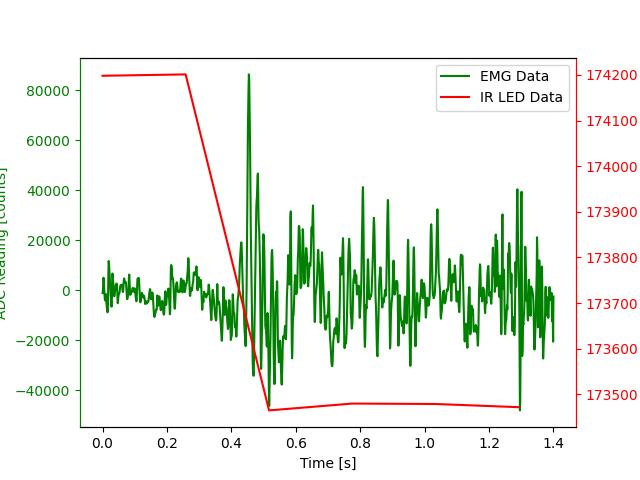
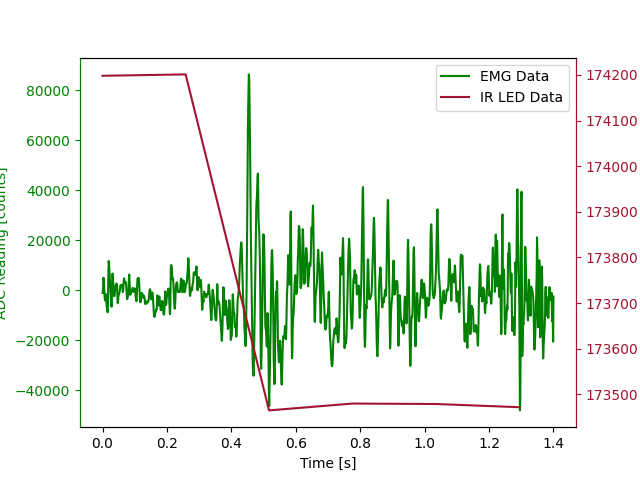
plot cleanup

diff --git a/process_data.py b/process_data.py
@@ -58,7 +58,7 @@ def main():
             lns2 = ax2.plot(
                 (light_data[idx - 1 : idx + 5, 0] - light_data[idx - 1, [0]]) / 1000,
                 light_data[idx - 1 : idx + 5, 2],
-                "r",
+                "#A2142F",
                 label="IR LED Data",
             )
             lns = lns1 + lns2
@@ -66,16 +66,16 @@ def main():
             ax1.legend(lns, labs)
             ax1.spines["left"].set_color("green")
             ax2.spines["left"].set_color("green")
-            ax1.spines["right"].set_color("red")
-            ax2.spines["right"].set_color("red")
+            ax1.spines["right"].set_color("#A2142F")
+            ax2.spines["right"].set_color("#A2142F")
             ax1.tick_params(axis="y", colors="green")
-            ax2.tick_params(axis="y", colors="red")
+            ax2.tick_params(axis="y", colors="#A2142F")
             ax1.yaxis.label.set_color("green")
-            ax2.yaxis.label.set_color("red")
+            ax2.yaxis.label.set_color("#A2142F")
             ax1.set_ylabel("ADC Reading [counts]")
             ax2.set_ylabel("ADC Reading [counts]")
             plt.savefig(Path(__file__).parent / f"imgs/trial_{curr_timestamp_setpoint_idx}_ir.png")
-            breakpoint()
+            
             curr_timestamp_setpoint_idx += 1
             if curr_timestamp_setpoint_idx == len(timestamp_setpoints):
                 break
